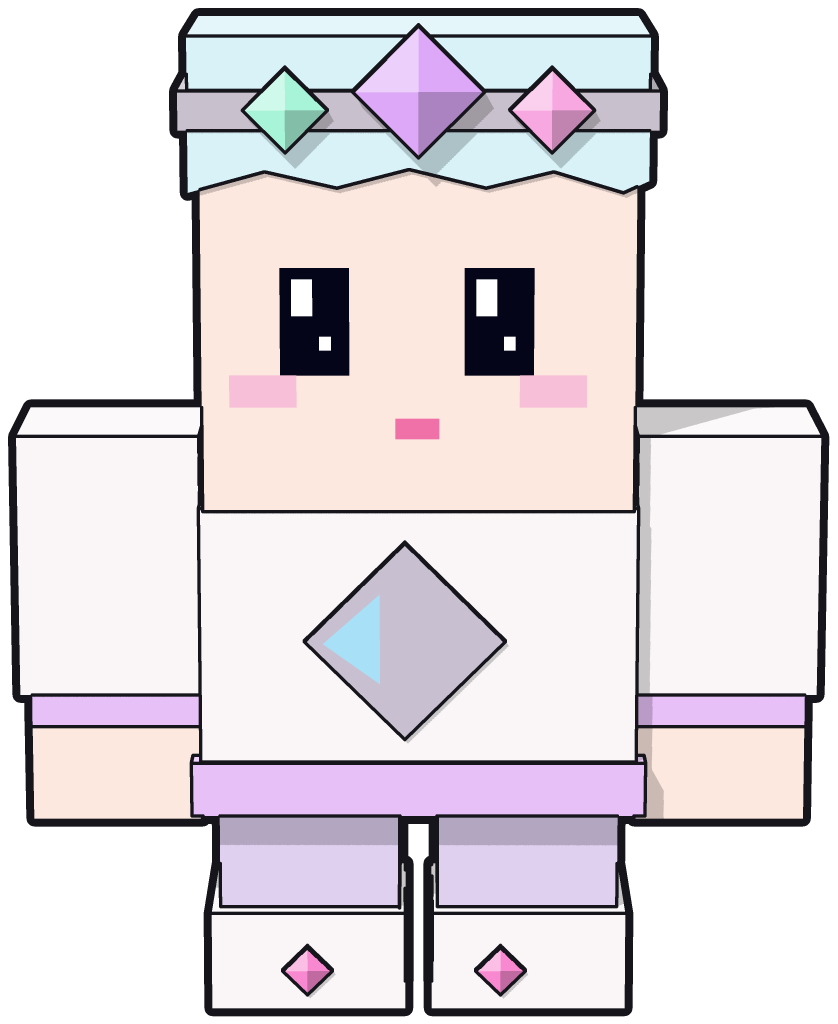
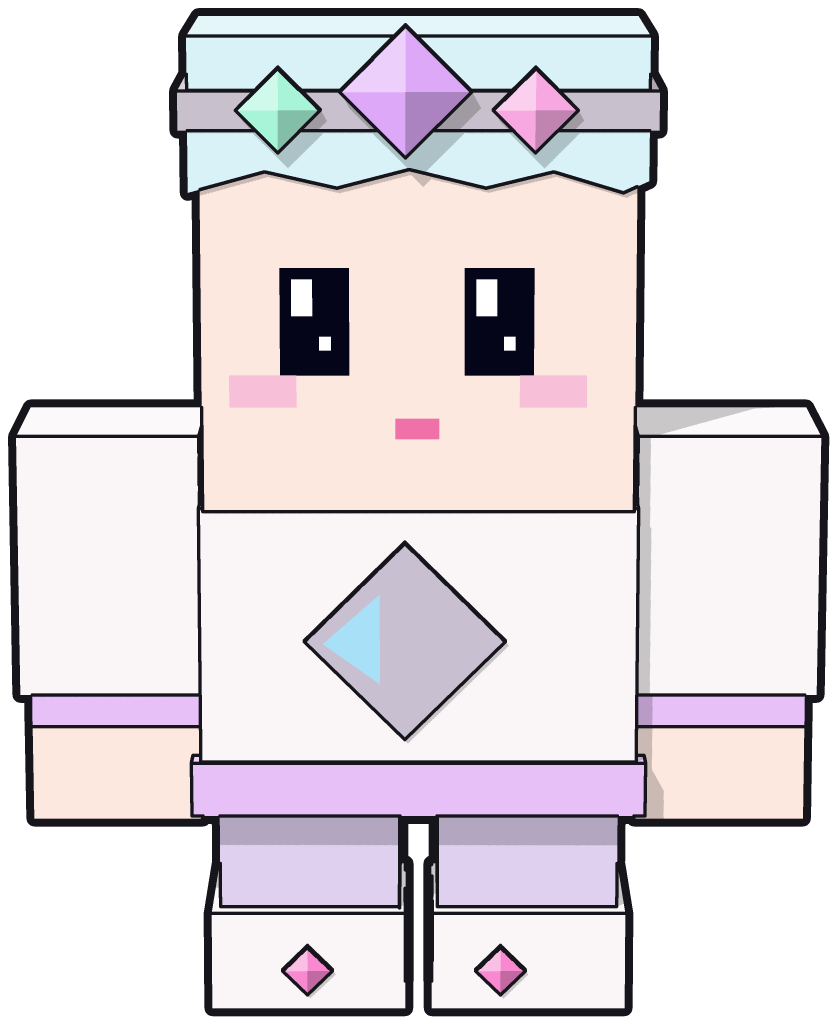
Review all 47 weapon-free characters against their screenshots and fix 16
A colour-map check (model front faces vs screenshot pixels, with a labelled
grid) was run on every character. Fixed: eye positions (Ore Creator,
Rainbowmancer, Lord of the Grotto), crown pillars (Lord of the Grotto),
beard/mustache shapes (Golden Baron), war paint angle (Ruby Splitter), robe
straps (Sky Sculptor), chest clock marks (Chrono Crystal), hood eyes
(Crystal Leviathan Kid), rune tablet and floating rock placement (Moss
Guardian, Meteor Wanderer), leg widths (Tiny Frost King, Magma Crusher),
lava cracks (Magma Crusher, Lava Smith, Spike Golem), chalk in the pocket
(Professor) and crown gems (Pastel Princess). Adds the checker scripts and
screenshot-vs-render review sheets.

Claude-Session: https://claude.ai/code/session_01ULLBN6QcHc2q67qZSwLzzW

Changed region(s): [[0.2792, 0.0, 0.7136, 0.1875]]

diff --git a/art3d_noweapon/src/check.py b/art3d_noweapon/src/check.py
@@ -1,0 +1,111 @@
+"""Colour check of a 3D character script against its screenshot.
+
+usage: python3 check.py <name> [<name> ...]   -> chk_<name>.png
+
+Paints the model's front faces and decals as a flat colour map in
+screenshot pixels (front-most on top), compares it with the screenshot in
+Lab space and marks pixels whose colour clearly differs.  The sheet shows:
+screenshot | model colour map | mismatches (red) on a faded screenshot.
+"""
+import sys
+import numpy as np
+from PIL import Image, ImageDraw
+
+import lib3d
+from compare import IMG, SRC
+from overlay import load_scene
+
+S = 3  # display upscale
+
+
+def to_lab(rgb):
+    c = rgb / 255.0
+    c = np.where(c > 0.04045, ((c + 0.055) / 1.055) ** 2.4, c / 12.92)
+    M = np.array([[0.4124, 0.3576, 0.1805], [0.2126, 0.7152, 0.0722], [0.0193, 0.1192, 0.9505]])
+    xyz = c @ M.T / np.array([0.9505, 1.0, 1.089])
+    f = np.where(xyz > 0.008856, np.cbrt(xyz), 7.787 * xyz + 16 / 116)
+    L = 116 * f[..., 1] - 16
+    a = 500 * (f[..., 0] - f[..., 1])
+    b = 200 * (f[..., 1] - f[..., 2])
+    return np.stack([L, a, b], -1)
+
+
+def model_map(script, W, H):
+    zoom = 2.0
+    for line in open(script).read().splitlines():
+        if line.startswith('ZOOM'):
+            zoom = float(line.split('=')[1])
+    scene, _ = load_scene(script)
+    items = []
+    for p in scene.parts:
+        if p.alpha < 1:
+            continue
+        for fc in p.faces:
+            if fc.n[2] <= 0.5:
+                continue
+            z = float(fc.pts[:, 2].mean())
+            col = fc.color if fc.color is not None else p.color
+            items.append((z, 0, [(x / zoom, y / zoom) for x, y, _ in fc.pts], col))
+            for k, (pts3, dc, _) in enumerate(fc.decals):
+                items.append((z, 1 + k, [(x / zoom, y / zoom) for x, y, _ in pts3], dc))
+    items.sort(key=lambda t: (t[0], t[1]))
+    img = Image.new('RGBA', (W, H), (0, 0, 0, 0))
+    d = ImageDraw.Draw(img)
+    for _, _, pts, col in items:
+        d.polygon(pts, fill=tuple(int(v) for v in col) + (255,))
+    return np.asarray(img).astype(np.float32), zoom
+
+
+def check(name):
+    script = f'c3dn_{name}.py'
+    shot = np.asarray(Image.open(f'{IMG}/{SRC[name]}.png').convert('RGB')).astype(np.float32)
+    H, W = shot.shape[:2]
+    mm, zoom = model_map(script, W, H)
+    cov = mm[..., 3] > 0
+    L1, L2 = to_lab(shot), to_lab(mm[..., :3])
+    d = np.sqrt(((L1[..., 0] - L2[..., 0]) * 0.45) ** 2 + (L1[..., 1] - L2[..., 1]) ** 2 + (L1[..., 2] - L2[..., 2]) ** 2)
+    bad = cov & (d > 28)
+    ys, xs = np.nonzero(cov)
+    x0, x1 = max(xs.min() - 6, 0), min(xs.max() + 7, W)
+    y0, y1 = max(ys.min() - 6, 0), min(ys.max() + 7, H)
+    crop = lambda a: a[y0:y1, x0:x1]
+    shot_im = Image.fromarray(crop(shot).astype(np.uint8))
+    bg = np.full_like(mm[..., :3], 255)
+    mm_rgb = np.where(cov[..., None], mm[..., :3], bg)
+    mm_im = Image.fromarray(crop(mm_rgb).astype(np.uint8))
+    faded = crop(shot) * 0.35 + 255 * 0.65
+    faded[crop(bad)] = (230, 0, 30)
+    diff_im = Image.fromarray(faded.astype(np.uint8))
+    w, h = x1 - x0, y1 - y0
+    sheet = Image.new('RGB', (3 * w * S + 20, h * S), (255, 255, 255))
+    for i, im in enumerate((shot_im, mm_im, diff_im)):
+        sheet.paste(im.resize((w * S, h * S), Image.NEAREST), (i * (w * S + 10), 0))
+    grid = Image.new('RGBA', sheet.size, (0, 0, 0, 0))
+    dr = ImageDraw.Draw(grid)
+    # grid on the screenshot and model panels, labelled in model units
+    for panel in (0, 1):
+        ox = panel * (w * S + 10)
+        for gx in range(((x0 + 9) // 10) * 10, x1, 10):
+            X = ox + (gx - x0) * S
+            major = gx % 50 == 0
+            dr.line([(X, 0), (X, h * S)], fill=(0, 0, 0, 110) if major else (0, 0, 0, 45), width=1)
+            if major:
+                dr.text((X + 2, 18), str(int(gx * zoom)), fill=(0, 0, 0, 255))
+        for gy in range(((y0 + 9) // 10) * 10, y1, 10):
+            Y = (gy - y0) * S
+            major = gy % 50 == 0
+            dr.line([(ox, Y), (ox + w * S, Y)], fill=(0, 0, 0, 110) if major else (0, 0, 0, 45), width=1)
+            if major:
+                dr.text((ox + 2, Y + 2), str(int(gy * zoom)), fill=(0, 0, 0, 255))
+    sheet = Image.alpha_composite(sheet.convert('RGBA'), grid).convert('RGB')
+    dr = ImageDraw.Draw(sheet)
+    score = bad.sum() / max(cov.sum(), 1)
+    dr.rectangle((0, 0, 190, 16), fill=(0, 0, 0))
+    dr.text((4, 3), f'{name} {score * 100:.1f}%', fill=(255, 255, 0))
+    sheet.save(f'chk_{name}.png')
+    return score
+
+
+if __name__ == '__main__':
+    for n in sys.argv[1:]:
+        print(f'{n:24s} {check(n) * 100:5.1f}%')

diff --git a/art3d_noweapon/src/c3dn_magma_crusher.py b/art3d_noweapon/src/c3dn_magma_crusher.py
@@ -9,16 +9,17 @@ ROCK, DARK, PAD = '#3A2222', '#26151D', '#40293A'
 LAVA, YEL = '#FF5A0A', '#FFF000'
 
 # feet with glowing lava soles, cracked legs
-for f in BOTH:
-    s.box(f(362), 890, f(512), 962, -70, 92, '#0C0A0C').f(R(f(362), 936, f(512), 962), '#FF2A0A')
-    s.box(f(362), 796, f(512), 896, -70, 70, DARK).f(B((f(432), 872), (f(448), 814), 11), LAVA)
+for (x0, x1), crack in (((357, 504), ((445, 800), (418, 868))), ((516, 662), ((575, 806), (598, 873)))):
+    s.box(x0, 890, x1, 962, -70, 92, '#0C0A0C').f(R(x0, 936, x1, 962), '#FF2A0A')
+    s.box(x0, 796, x1, 896, -70, 70, DARK).f(B(crack[0], crack[1], 11), LAVA)
 
 # torso with lava cracks and a yellow core gem, hips
 torso = s.box(341, 536, M(341), 724, -100, 100, ROCK)
-for a, b in (((455, 572), (428, 632)), ((583, 586), (610, 650)), ((458, 690), (484, 724))):
+for a, b in (((457, 563), (422, 625)), ((578, 576), (615, 643)), ((455, 683), (466, 724)), ((595, 693), (583, 724))):
     torso.f(B(a, b, 11), LAVA)
 gem(s, 522, 632, 56, 98, 116, YEL)
-s.box(341, 718, M(341), 802, -96, 96, DARK).f(B((M(458), 718), (M(484), 760), 11), LAVA)
+hips = s.box(341, 718, M(341), 802, -96, 96, DARK)
+hips.f(B((462, 710), (480, 750), 11), LAVA).f(B((586, 715), (560, 758), 11), LAVA)
 
 # arms: rocky forearms with a dark band, big shoulder blocks
 for f in BOTH:

diff --git a/art3d_noweapon/src/grid.py b/art3d_noweapon/src/grid.py
@@ -1,0 +1,25 @@
+"""Raw screenshot upscaled with a labelled grid (labels in model units = px * zoom)."""
+import sys
+from PIL import Image, ImageDraw
+from compare import IMG, SRC
+name, zoom, out = sys.argv[1], float(sys.argv[2]), sys.argv[3]
+x0, y0, x1, y1 = (int(v) for v in sys.argv[4:8]) if len(sys.argv) > 4 else (0, 0, 10 ** 5, 10 ** 5)
+S = int(sys.argv[8]) if len(sys.argv) > 8 else 4
+im = Image.open(f'{IMG}/{SRC[name]}.png').convert('RGB')
+x1, y1 = min(x1, im.width), min(y1, im.height)
+im = im.crop((x0, y0, x1, y1)).resize(((x1 - x0) * S, (y1 - y0) * S), Image.NEAREST).convert('RGBA')
+lay = Image.new('RGBA', im.size, (0, 0, 0, 0))
+d = ImageDraw.Draw(lay)
+for gx in range(((x0 + 9) // 10) * 10, x1, 10):
+    X = (gx - x0) * S
+    major = gx % 50 == 0
+    d.line([(X, 0), (X, im.height)], fill=(0, 0, 0, 90 if major else 40), width=1)
+    if major:
+        d.text((X + 2, 2), str(int(gx * zoom)), fill=(0, 0, 0, 255))
+for gy in range(((y0 + 9) // 10) * 10, y1, 10):
+    Y = (gy - y0) * S
+    major = gy % 50 == 0
+    d.line([(0, Y), (im.width, Y)], fill=(0, 0, 0, 90 if major else 40), width=1)
+    if major:
+        d.text((2, Y + 2), str(int(gy * zoom)), fill=(0, 0, 0, 255))
+Image.alpha_composite(im, lay).convert('RGB').save(out)

diff --git a/art3d_noweapon/src/c3dn_lord_of_the_grotto.py b/art3d_noweapon/src/c3dn_lord_of_the_grotto.py
@@ -8,7 +8,7 @@ BOTH = (lambda x: x, M)
 GOLD, RED, SKIN, BEARD = '#E8B800', '#D00818', '#FCE0CC', '#C06008'
 
 # tall gold crown pillars behind the band
-for cx, top, w, z in ((415, 112, 58, -30), (M(415), 150, 50, -30), (452, 62, 60, -60), (M(452), 74, 60, -60), (552, 30, 70, -70)):
+for cx, top, w, z in ((415, 118, 60, -30), (604, 142, 32, -40), (455, 56, 62, -60), (662, 74, 58, -50), (551, 28, 76, -70)):
     s.box(cx - w / 2, top, cx + w / 2, 262, z - w / 2, z + w / 2, GOLD)
 
 # lower robe, gold hem
@@ -35,7 +35,7 @@ gem(s, 552, 292, 52, 120, 138, '#FF1030')
 # face
 for f in BOTH:
     head.f(P((f(420), 414), (f(512), 424), (f(512), 454), (f(420), 444)), '#8B3A10')
-for x in (435, M(495)):
+for x in (435, 603):
     head.f(R(x, 450, x + 60, 540), '#05051A').f(R(x + 8, 462, x + 30, 490), '#FFFFFF')
 
 # ginger beard with golden threads and a gold clasp

diff --git a/art3d_noweapon/src/c3dn_sky_sculptor.py b/art3d_noweapon/src/c3dn_sky_sculptor.py
@@ -14,11 +14,11 @@ s.box(382, 88, M(382), 128, -70, 70, '#FFF200')
 # feet, lower robe, blue hem with a gold edge
 for f in BOTH:
     s.box(f(356), 978, f(505), 1016, -60, 84, '#4A8A7A')
-s.box(342, 852, M(342), 960, -90, 90, ROBE)
+s.box(342, 852, M(342), 960, -90, 90, ROBE).f(R(402, 852, 458, 876), BLUE).f(R(564, 852, 620, 876), BLUE)
 s.box(336, 948, M(336), 986, -94, 94, BLUE).f(R(336, 978, M(336), 986), '#F8C800')
 
 # robe with blue straps, gold belt with a gem
-s.box(352, 590, M(352), 860, -88, 88, ROBE).f(R(405, 640, 462, 860), BLUE).f(R(M(462), 640, M(405), 860), BLUE)
+s.box(352, 590, M(352), 860, -88, 88, ROBE).f(R(402, 740, 458, 860), BLUE).f(R(564, 740, 620, 860), BLUE)
 s.box(344, 806, M(344), 856, -92, 92, GOLD)
 gem(s, 522, 831, 32, 90, 104, '#FFE800')
 

diff --git a/art3d_noweapon/src/c3dn_tiny_frost_king.py b/art3d_noweapon/src/c3dn_tiny_frost_king.py
@@ -12,10 +12,10 @@ for cx, top, w, z in ((478, 165, 36, -30), (M(478), 165, 36, -30), (432, 105, 60
     crystal(s, cx, (top + 250) / 2, w, 250 - top, ICE, z=z, d=w * 0.9)
 
 # legs, snowy boots, soles
-for f in BOTH:
-    s.box(f(385), 1040, f(553), 1086, -76, 96, '#90A8B8')
-    s.box(f(390), 988, f(553), 1050, -74, 90, SNOW)
-    s.box(f(395), 898, f(553), 994, -70, 70, '#1040E0')
+for x0, x1 in ((392, 542), (560, 712)):
+    s.box(x0 - 6, 1040, x1 + 4, 1086, -76, 96, '#90A8B8')
+    s.box(x0 - 4, 988, x1 + 2, 1050, -74, 90, SNOW)
+    s.box(x0, 898, x1, 994, -70, 70, '#1040E0')
 
 # robe with a snowflake, gold belt with an ice gem
 t = s.box(387, 650, M(387), 912, -100, 100, BLUE)

diff --git a/art3d_noweapon/src/c3dn_rainbowmancer.py b/art3d_noweapon/src/c3dn_rainbowmancer.py
@@ -37,10 +37,9 @@ s.box(M(300), 402, M(278), 512, -80, 60, LILAC)
 head = s.box(292, 396, M(292), 662, -100, 100, SKIN)
 s.box(281, 318, M(281), 402, -106, 106, WH)
 s.prism(P((436, 306), (458, 328), (454, 380), (436, 406), (418, 380), (414, 328)), 100, 120, '#F81838')
-for x in (346, M(393)):
+for x in (346, 469):
     head.f(R(x, 490, x + 47, 560), '#6A1AE0').f(R(x + 9, 500, x + 24, 520), '#FFFFFF')
-for f in BOTH:
-    head.f(R(f(315), 566, f(355), 584), '#FCC8E0')
+head.f(R(315, 566, 355, 584), '#FCC8E0').f(R(509, 566, 549, 584), '#FCC8E0')
 head.f(R(416, 598, M(416), 608), '#C04888')
 
 render(s, sys.argv[1])

diff --git a/art3d_noweapon/src/c3dn_pastel_princess.py b/art3d_noweapon/src/c3dn_pastel_princess.py
@@ -29,9 +29,9 @@ head = s.box(244, 176, M(244), 506, -100, 100, SKIN)
 s.prism(P((234, 92), (M(234), 92), (M(234), 216), (608, 226), (548, 208), (490, 222), (424, 206), (362, 222), (300, 208), (234, 226)),
         -106, 106, '#D8F2F8')
 s.box(226, 138, M(226), 172, -110, 110, '#C8C0CC')
-gem(s, 318, 154, 36, 108, 120, '#A8F4D8')
-gem(s, 432, 138, 56, 108, 124, '#DDA8F8')
-gem(s, 546, 154, 36, 108, 120, '#F8A8E0')
+gem(s, 312, 154, 36, 108, 120, '#A8F4D8')
+gem(s, 421, 138, 56, 108, 124, '#DDA8F8')
+gem(s, 532, 154, 36, 108, 120, '#F8A8E0')
 
 # face: big sparkly eyes, blush, little nose
 for x in (312, 472):

diff --git a/art3d_noweapon/src/c3dn_ruby_splitter.py b/art3d_noweapon/src/c3dn_ruby_splitter.py
@@ -44,9 +44,11 @@ s.box(480, 290, 516, 396, 102, 112, NAVY)
 # face: angry brows, eyes, red war paint
 for f in BOTH:
     head.f(P((f(384), 328), (f(466), 350), (f(466), 370), (f(384), 348)), '#3A0808')
-    head.f(R(f(378), 426, f(462), 446), '#F82838')
 for x, hx in ((398, 405), (M(450), M(434))):
     head.f(R(x, 355, x + 52, 420), '#0A0A1E').f(R(hx, 370, hx + 15, 390), '#FFFFFF')
+
+head.f(P((370, 426), (452, 417), (452, 438), (370, 449)), '#F82838')
+head.f(P((523, 417), (605, 426), (605, 449), (523, 438)), '#F82838')
 
 # fiery beard with a long braid
 s.box(476, 574, M(476), 658, 100, 126, BEARD)

diff --git a/art3d_noweapon/src/c3dn_professor.py b/art3d_noweapon/src/c3dn_professor.py
@@ -22,8 +22,8 @@ for y in (606, 662, 716):
     s.box(498, y - 3, 518, y + 3, 106, 110, '#101030')
 s.prism(P((400, 560), (460, 572), (M(400), 560), (M(400), 602), (460, 590), (400, 602)), 100, 112, '#F81010')
 s.box(536, 700, 620, 786, 100, 108, '#0A2068')
-s.box(535, 690, 568, 762, 94, 104, '#B0E0F8')
-s.box(562, 682, 590, 762, 94, 104, '#F8B8E0')
+s.box(525, 678, 554, 750, 104, 114, '#B0E0F8')
+s.box(554, 684, 583, 754, 104, 114, '#F8B8E0')
 s.box(252, 796, M(252), 842, -104, 104, '#060818')
 
 # arms: navy sleeves, white cuffs, hands; a chalk scratch on the jacket

diff --git a/art3d_noweapon/src/c3dn_spike_golem.py b/art3d_noweapon/src/c3dn_spike_golem.py
@@ -31,7 +31,8 @@ for f, a in ((lambda x: x, -8), (M, 8)):
         s.prism(P((x0, 956), (x0 + 38, 872), (x0 + 76, 956)), 104, 132, '#A88088')
     s.cube(f(288), 628, 0, 244, 204, 230, PALE, rz=a)
     s.box(f(218), 468, f(358), 548, -60, 60, '#9A8488')
-s.box(215, 845, 245, 902, 106, 108, CRACK, line=False)
+s.prism(B((216, 906), (252, 846), 12), 106, 110, CRACK, line=False)
+s.prism(B((1024, 962), (1076, 878), 12), 106, 110, CRACK, line=False)
 
 # head: stone blocks on top, upper tier with specks, band, face, jaw
 s.box(458, 152, 545, 212, -60, 60, '#C0A8A8')

diff --git a/art3d_noweapon/src/c3dn_golden_baron.py b/art3d_noweapon/src/c3dn_golden_baron.py
@@ -42,7 +42,7 @@ head.f(R(362, 292, 402, 350), '#05051A').f(R(368, 300, 382, 316), '#FFFFFF')
 head.f(B((262, 346), (242, 406), 4), GOLD)
 s.cyl(278, 318, 82, 90, 34, GOLD)
 s.cyl(278, 318, 88, 93, 25, '#FFE870')
-s.prism(P((275, 352), (405, 352), (405, 390), (384, 390), (384, 372), (298, 372), (298, 390), (275, 390)), 82, 92, '#4A1A08')
+s.prism(P((249, 344), (269, 344), (269, 356), (377, 356), (377, 344), (401, 344), (401, 380), (249, 380)), 82, 92, '#4A1A08')
 head.f(R(300, 386, 336, 398), '#8B2A10')
 
 render(s, sys.argv[1])
